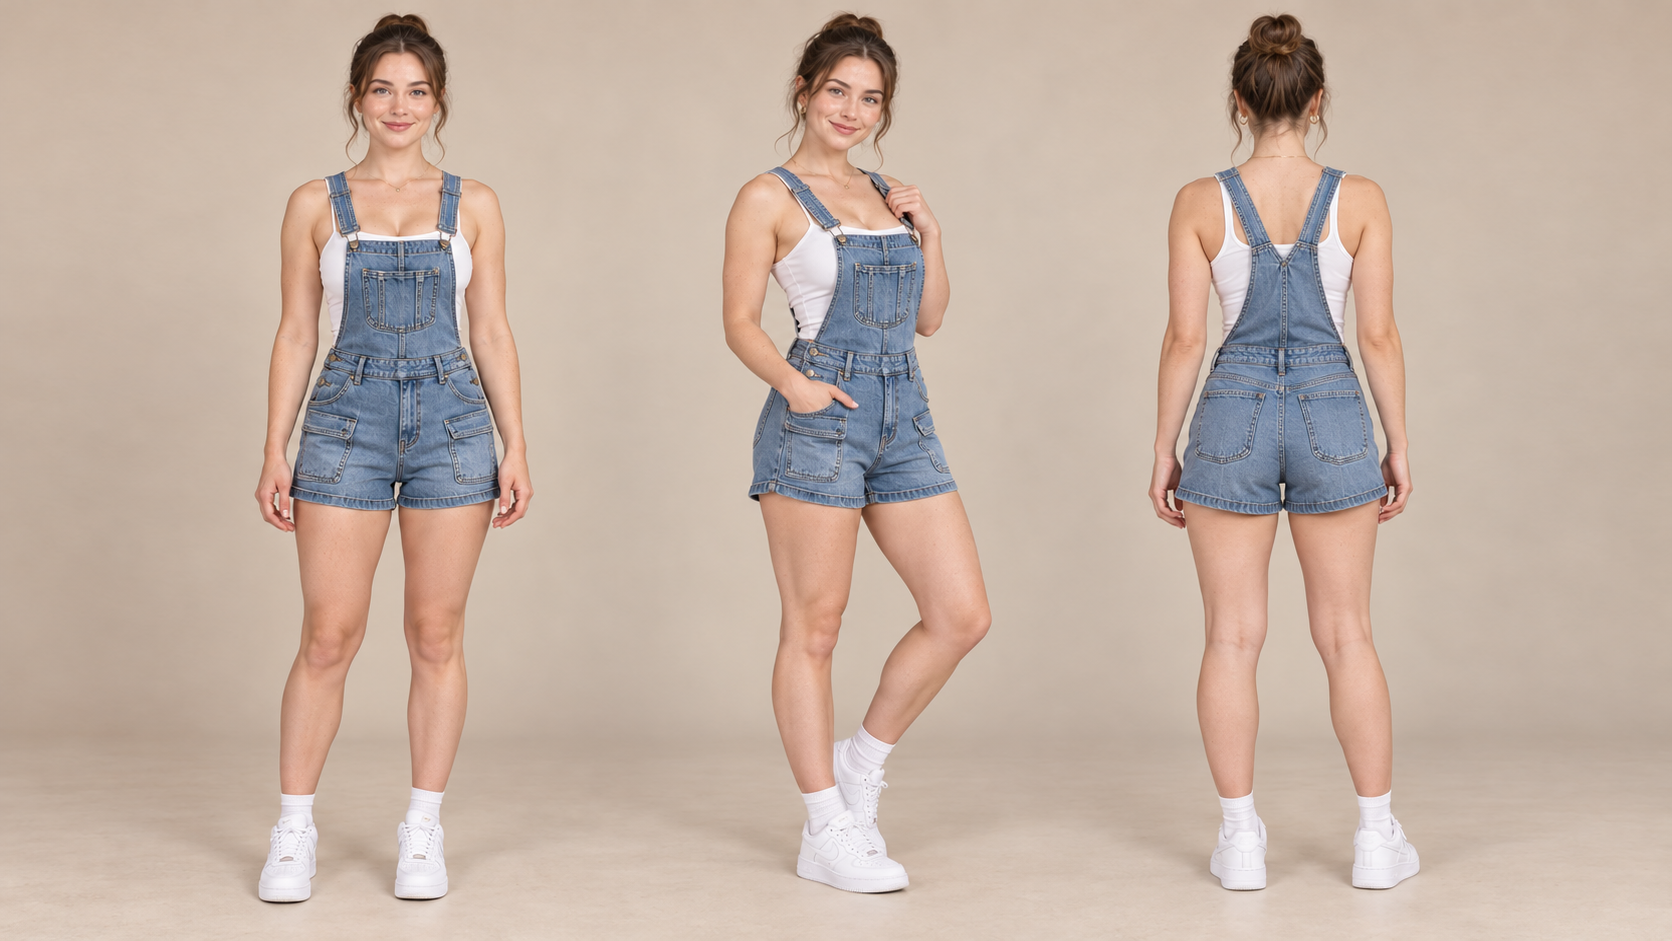
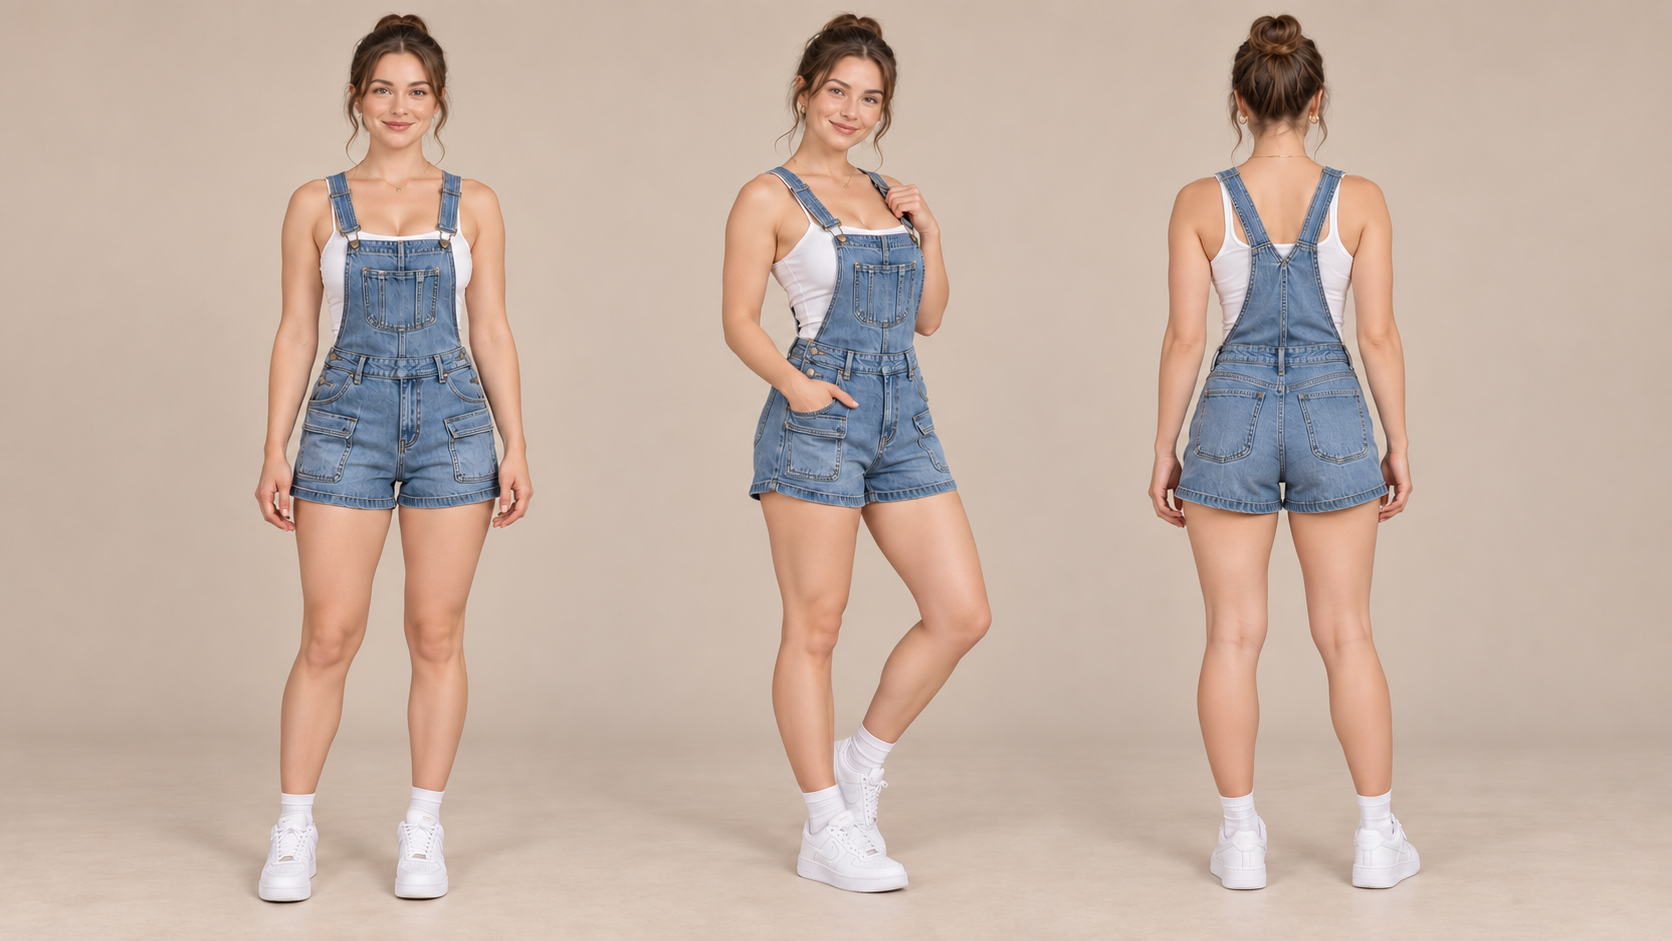
Elise DIY ep02-06: Christmas wall-tree episodes and pipeline lessons
- ep02-ep06 beat lists and gen-anh/gen-video CSVs (wall tinsel tree, light
  tree, floating shelf tree, gift box tower, branch tree)
- new outfits: leggings, pleated skirt + logo crop top (heels / polka-dot
  tights); all model sheets redone without freckles
- muse-video-pipeline.md: QA retry vs Muse "render lại", Chrome profiles,
  per-series tabs, and ep02-04 lessons (cut filler actions, no night
  switch-on scene, lit frame from the previous frame, chained start frames)

diff --git a/content/elise-diy/Y-TUONG-TAP-03-06.md b/content/elise-diy/Y-TUONG-TAP-03-06.md
@@ -1,0 +1,83 @@
+# Elise DIY: 4 ý tưởng Giáng sinh tiếp theo (bản nháp, chờ chủ dự án duyệt)
+
+Phát triển từ video mẫu cây thông kim tuyến trên tường (tập 02). Mỗi tập là một reel dọc 9:16. Mỗi clip Muse 10 giây làm đúng
+một việc, có khung đầu và khung cuối; ghép thì tăng tốc xuống 2–4 giây. Mỗi tập một căn phòng khác nhau để không lặp lại tập 02.
+Mỗi tập mặc một bộ đồ, chọn từ tủ đồ trong `models/`.
+
+## Tập 03: cây thông chỉ bằng đèn (dễ làm nhất, khoảng 24 giây)
+Làm theo ảnh sản phẩm chủ dự án gửi (2026-11-03): 2 dây chéo từ đỉnh, 9 tầng dây đèn dây đen cong vòng cung, khung sao viền đèn
+rỗng giữa, quả châu vàng mờ, đồ kim loại vàng, người tuyết trắng, nơ voan vàng. Phòng tường trắng, cửa sổ nhìn ra tuyết bên phải,
+bàn nhỏ có đèn ngủ, quà giấy nâu sẫm buộc ruy băng vàng. Elise mặc **legging đen + áo ba lỗ trắng + Nike**.
+Điểm hút: bật công tắc, cả cây sáng cùng lúc.
+
+| Giây | Clip | Việc | Khung đầu → khung cuối |
+|---|---|---|---|
+| 0–4 | 1 | Dán móc trong suốt thành 9 cặp viền tam giác | `dn-B-moc-dau` → `dn-B2-moc-xong` |
+| 4–8 | 2 | Giăng dây đèn (tắt): 2 dây chéo, 9 tầng vòng cung | `dn-B2-moc-xong` → `dn-C-day-den` |
+| 8–10 | 3 | Treo khung sao viền đèn lên đỉnh | `dn-C-day-den` → `dn-D-sao` |
+| 10–15 | 4 | Treo quả châu, đồ kim loại vàng, người tuyết, nơ | `dn-D-sao` → `dn-D2-trang-tri` |
+| 15–19 | 5 | Cắt sang buổi tối (thùng đồ đã cất). Bấm công tắc, cả cây sáng | `dn-E2-toi` → `dn-F-sang` |
+| 19–24 | 6 | Máy quay đẩy vào thành phẩm, Elise ra khỏi khung | `dn-F-sang` → `dn-G-thanh-pham` |
+
+Quà và thùng đồ trang trí có sẵn từ ảnh đầu. Thùng chỉ mất ở cú cắt sang buổi tối, để ảnh thành phẩm gọn.
+
+**Trạng thái: XONG (2026-11-03), chủ dự án duyệt bản `video/final.mp4` 18 giây; đã xóa clip lẻ và bản 24 giây. Ghi chú cũ bên dưới để tham khảo:**
+- `video/final-v1.mp4`: 24 giây, QA 62. `video/final.mp4`: bản cắt bỏ đoạn lỗi, 18 giây, QA 53, kém hơn vì mất quá trình làm.
+  Cột cắt hiện trong `gen-video.csv` là của bản 18 giây. Muốn quay lại bản 1 thì xóa `cat_den`, trả `dung_giay` về 4/4/2/5/4/5
+  và `che_do` về `tang_toc`.
+- Đề xuất khi làm tiếp: bỏ clip 1 (móc dán quá nhỏ, Muse cho móc tự hiện ra thành lưới), gen lại clip 4 (đồ trang trí hiện
+  hàng loạt) và clip 6 (bàn đèn và cửa sổ biến mất, đẩy máy quá sâu) bằng câu "render lại"; giữ clip 2, 3, 5.
+
+## Tập 04: cây thông bằng kệ gỗ nổi (khoảng 28 giây)
+Theo ảnh thành phẩm `kg-G-thanh-pham.png`: tường xanh xám nhạt, 6 kệ gỗ óc chó nổi ngắn dần lên trên, sao vàng trên đỉnh,
+cây thông mini phủ tuyết, nến LED, quà nhỏ, chuông vàng, quả mọng, dây lá có đèn; dưới là tủ thấp gỗ óc chó đặt quà và đèn lồng.
+Elise mặc **legging đen + áo ba lỗ trắng + Nike**. Bỏ bước khoan bắt giá (vật nhỏ, AI vẽ kém); giá kệ coi như đã gắn sẵn.
+
+| Giây | Clip | Việc | Khung đầu → khung cuối |
+|---|---|---|---|
+| 0–4 | 1 | Lắp 6 tấm kệ, từ dài nhất ở dưới lên | `kg-B-ke-tron` → `kg-B2-ke-xong` |
+| 4–8 | 2 | Quấn dây lá có đèn (tắt) dọc mép kệ | `kg-B2-ke-xong` → `kg-C-day-la` |
+| 8–12 | 3 | Bày cây thông mini và nến lên kệ | `kg-C-day-la` → `kg-C2-cay-nen` |
+| 12–16 | 4 | Bày quà nhỏ, chuông, quả mọng | `kg-C2-cay-nen` → `kg-D-qua-nho` |
+| 16–18 | 5 | Đặt ngôi sao lên đỉnh | `kg-D-qua-nho` → `kg-D2-sao` |
+| 18–23 | 6 | Buổi tối, bấm điều khiển, đèn và nến sáng | `kg-E2-toi` → `kg-F-sang` |
+| 23–28 | 7 | Elise bước ra khỏi khung, máy quay đẩy vào thành phẩm | `kg-F-sang` → `kg-G-thanh-pham` |
+
+## Tập 05: cây thông bằng hộp quà (khoảng 28 giây)
+Theo ảnh mẫu chủ dự án gửi và ảnh thành phẩm `hq-G-thanh-pham.png`: khoảng 30 hộp quà xếp lệch tầng thành cây (giấy kraft,
+vàng, xanh lục, đồng, xám sẫm, ruy băng xanh lục, nơ kim loại, quả châu nhét khe), tường ván gỗ xám trắng phủ rèm dây đèn,
+vòng nguyệt quế, 2 sao giấy vàng, ghế bành xám gối len xanh, bàn rổ sắt có cây thông nhỏ và cốc đỏ, thảm lông sẫm.
+Elise mặc **váy xếp ly + crop top logo + cao gót đen**.
+
+| Giây | Clip | Việc | Khung đầu → khung cuối |
+|---|---|---|---|
+| 0–4 | 1 | Xếp tầng đáy bằng các hộp lớn nhất | `hq-B-dong-qua` → `hq-B2-tang-day` |
+| 4–8 | 2 | Xếp các tầng giữa tới ngang ngực | `hq-B2-tang-day` → `hq-C-tang-giua` |
+| 8–12 | 3 | Xếp các tầng trên tới hộp nhỏ có nơ xanh trên đỉnh | `hq-C-tang-giua` → `hq-C2-dinh` |
+| 12–16 | 4 | Nhét quả châu vào các khe | `hq-C2-dinh` → `hq-D-qua-chau` |
+| 16–21 | 5 | Buổi tối, bấm điều khiển, rèm dây đèn sáng | `hq-E2-toi` → `hq-F-sang` |
+| 21–28 | 6 | Elise bước ra khỏi khung, máy quay đẩy vào thành phẩm | `hq-F-sang` → `hq-G-thanh-pham` |
+
+## Tập 06: cây thông cành gỗ mộc mạc, kiểu Bắc Âu (khoảng 30 giây)
+Theo ảnh thành phẩm `cg-G-thanh-pham.png`: 6 cành gỗ khô buộc dây đay treo từ móc đồng trên tường trắng, quấn lá thông và dây
+đèn đồng, treo quả thông, quả châu trắng đỏ, sao gỗ; băng ghế trắng bày 3 nến trụ, 2 cây gốm trắng, đèn lồng đen; cửa sổ bên trái,
+sofa xám bên phải, thảm len kem. Elise mặc **váy xếp ly + crop top logo + tất đen chấm bi, không giày**.
+
+| Giây | Clip | Việc | Khung đầu → khung cuối |
+|---|---|---|---|
+| 0–4 | 1 | Buộc 6 cành gỗ bằng dây đay trên băng ghế | `cg-B-canh` → `cg-B2-buoc` |
+| 4–7 | 2 | Treo cây cành gỗ lên móc tường | `cg-B2-buoc` → `cg-C-treo` |
+| 7–11 | 3 | Quấn lá thông và dây đèn (tắt) dọc từng cành | `cg-C-treo` → `cg-C2-la-thong` |
+| 11–15 | 4 | Treo quả thông, quả châu, sao gỗ | `cg-C2-la-thong` → `cg-D-trang-tri` |
+| 15–19 | 5 | Bày nến, cây gốm, đèn lồng lên băng ghế | `cg-D-trang-tri` → `cg-D2-bay-ghe` |
+| 19–24 | 6 | Chiều muộn, bấm điều khiển, đèn và nến sáng | `cg-E2-chieu` → `cg-F-sang` |
+| 24–30 | 7 | Elise bước ra khỏi khung, máy quay đẩy vào thành phẩm | `cg-F-sang` → `cg-G-thanh-pham` |
+
+## Ảnh khung hình (cập nhật 2026-11-03)
+`gen-anh.csv` mỗi tập: `ep03-light-tree/` (`dn-`, 8 ảnh), `ep04-shelf-tree/` (`kg-`, 8 khung + thành phẩm),
+`ep05-gift-tree/` (`hq-`, 7 khung + thành phẩm), `ep06-branch-tree/` (`cg-`, 8 khung + thành phẩm).
+Ảnh thành phẩm `<tiền tố>-G-thanh-pham.png` gen trước để duyệt sản phẩm. Ảnh này được gửi kèm ở khung đầu (lấy đúng phòng)
+và khung bật đèn (lấy đúng sản phẩm). `<tiền tố>-A-elise-truoc.png` là ảnh tham chiếu trang phục, bản không tàn nhang.
+
+## Thứ tự làm đề xuất
+03 → 05 → 06 → 04. Tập 04 có khoan và lắp kệ, vật lý khó nhất, nên làm sau cùng khi đã quen.

diff --git a/docs/muse-video-pipeline.md b/docs/muse-video-pipeline.md
@@ -18,13 +18,24 @@ Quy trình này dùng cho các video remake reel DIY/thủ công dạng timelaps
 4. **Gen ảnh** bằng `gpt_anh.py`. Tool gọi `codex.exe` của extension Codex trong VS Code, dùng tài khoản ChatGPT nên không cần API key.
    **Xem lại từng ảnh** trước khi gửi Muse.
 5. `python muse_auto.py auto --dir <tập>`. Tool lần lượt:
-   - gửi từng clip vào **side chat riêng của series** trên muse.ai, qua Opera + Playwright (cần bật VPN Opera);
-   - **QA từng clip** bằng Claude: đạt; hoặc tự cắt bỏ đuôi lỗi; hoặc gen lại 1 lần kèm câu sửa;
+   - gửi từng clip vào **side chat riêng của series** trên muse.ai, qua Chrome + Playwright (profile `chrome-profile*/`
+     theo `config.json` hoặc `muse-chat.json` của series; Opera chỉ còn là tùy chọn, cần bật VPN Opera);
+   - **QA từng clip** bằng Claude: đạt; hoặc tự cắt bỏ đuôi lỗi; hoặc gen lại 1 lần kèm câu sửa (xem "Gen lại clip" bên dưới);
    - ghép bằng `ghep.py`;
    - QA cả video bằng `qa.py`, cho GPT và Claude chấm cùng thang 7 tiêu chí.
 6. **Chủ dự án xem video.** Sửa bằng cách cắt hoặc làm chậm qua các cột `cat_tu`, `cat_den`, `dung_giay`, `che_do`
    (không tốn lượt gen), hoặc gen lại đúng clip lỗi.
-7. Chốt bản cuối thì dọn file nháp (`_v*/`, `*.lan1.mp4`, `video/qa/`), chỉ giữ `video/final.mp4`.
+7. Chốt bản cuối thì dọn file nháp (`_v*/`, `*.lan1.mp4`, `*.truoc.mp4`, `final-v*.mp4`, `video/qa/`), chỉ giữ `video/final.mp4`.
+
+## Gen lại clip: hai trường hợp khác nhau (chủ dự án quy định, 2026-11-03)
+
+| Trường hợp | Gửi gì cho Muse |
+|---|---|
+| **Clip trượt QA chấm điểm** (biến hình, vật tự xuất hiện...) | Gửi **như tạo một video bình thường**: đính kèm lại đủ ảnh (khung đầu, khung cuối, tham chiếu) và **prompt mới**, tức prompt cũ cộng câu sửa "FIX FROM PREVIOUS ATTEMPT: ...". Tool tự làm khi QA trượt; muốn tự chọn clip thì `muse_auto.py run --csv ... --only N --lam-lai [--sua "câu sửa"]` |
+| **Muse lỗi** ("Delivery not confirmed", không trả video) | Gửi lại **nguyên tin yêu cầu**: đủ ảnh + prompt cũ, mã việc mới. Tool tự làm khi thấy lỗi (tối đa `delivery_retries` lần). Nhắn "render lại" không kèm ảnh thì Muse trả lời là thiếu ảnh và không gen (đã gặp ở Elise Wild C29, 2026-11-03) |
+
+Không bao giờ chỉ nhắn "render lại" cho clip trượt QA. Như vậy Muse không biết làm lại clip nào, cũng không biết phải sửa gì,
+mà vẫn tốn một lượt gen.
 
 Ảnh gen ra, clip, bản nháp và video không commit (`.gitignore`). Commit CSV, tài liệu và model sheet; từ CSV gen lại được tất cả.
 
@@ -51,6 +62,33 @@ Quy trình này dùng cho các video remake reel DIY/thủ công dạng timelaps
   - `gpt_anh.py` tự thử lại 1 lần với khung hình kín đáo hơn.
 - **Muse:**
   - xuất video 704×1248, `ghep.py` phóng lên 1080×1920;
-  - tin nhắn có thể "Delivery not confirmed" khi mạng chập chờn; tool kiểm tra tin đã lên chat và dùng mã `#job-...`
-    để không tải nhầm video cũ;
-  - dùng lại tab đang mở, không mở tab mới.
+  - tin nhắn có thể "Delivery not confirmed" khi mạng chập chờn. Tool kiểm tra tin đã lên chat và dùng mã `#job-...`
+    để không tải nhầm video cũ. Nếu thấy dòng này mà Muse chưa tạo video, tool chờ 30 giây rồi gửi lại nguyên tin yêu
+    cầu kèm ảnh (tối đa `delivery_retries` lần, mặc định 3);
+  - mỗi series dùng lại tab đang mở đúng side chat của nó. Không có tab đó thì tool mở tab mới, không mượn tab Muse của
+    series khác (Elise DIY và Elise Talent dùng chung `chrome-profile-2`).
+
+## Bài học (Elise DIY tập 02–04, cây thông Giáng sinh, 2026-11-03)
+
+- **Bỏ mọi hành động thừa, không kéo dài cho đủ số giây (chủ dự án yêu cầu).** Mỗi giây trong video phải là một công
+  đoạn có ích hoặc là thành phẩm. Cắt bỏ các đoạn đứng chờ, đung đưa, quay qua quay lại, đi qua đi lại, cúi nhặt mà không
+  làm gì, ngắm lâu. Cột giây trong kịch bản chỉ là ước lượng: khi ghép thì cắt theo nội dung (`cat_tu`, `cat_den`, `dung_giay`),
+  bước nào chỉ cần 1,5 giây thì để 1,5 giây. Video ngắn hơn dự kiến cũng được.
+- **Trường hợp hay gặp nhất: Elise cầm đồ vật lắc qua lắc lại.** Khung cuối mà tả "cô đứng cầm món X" thì
+  Muse cho cô đứng đung đưa chờ suốt mấy giây cuối clip. Cách làm:
+  - Khi viết prompt: kết thúc clip ngay khi xong việc, ghi rõ "she never stands idle swaying with an item in her hands".
+    Khung cuối nên là lúc vừa xong thao tác, không phải lúc đứng cầm sẵn đồ của bước sau.
+  - Khi ghép: cắt bỏ đoạn đứng cầm đồ chờ ở cuối clip (`cat_den`), trước khi chốt video.
+- **Muse tự "làm xong trước" ở cuối clip.** Đồ trang trí, dây lá, quà hiện ra hàng loạt mấy giây cuối, sang clip sau lại
+  về ảnh khung đầu, nên người xem thấy đồ xếp lên rồi mất rồi lại xếp. Trích khung hình mỗi 0,5 giây và cắt mỗi clip
+  trước lúc đồ hiện hàng loạt. Thường cắt được ở giây 5–7 của clip 10 giây.
+- **Không dùng cảnh tối rồi bấm công tắc.** Muse làm cả phòng ám cam đậm, nền khác hẳn các cảnh ban ngày. Chủ dự án
+  chọn: chỉ giữ các công đoạn và cảnh thành phẩm sáng đèn ở cuối.
+- **Ảnh bật đèn phải gen từ ảnh ngay trước nó**, không gửi kèm ảnh thành phẩm. Gửi kèm ảnh thành phẩm thì AI vẽ sản
+  phẩm theo ảnh đó, khác ảnh trước, nên clip bị biến hình. Ảnh thành phẩm chỉ dùng ở ảnh đầu, để lấy đúng phòng.
+- **Ảnh thành phẩm gen trước, chủ dự án duyệt sản phẩm rồi mới gen các bước.** Ý tưởng nào có ảnh mẫu thì làm đúng sản
+  phẩm trong ảnh mẫu.
+- **Tránh vật quá nhỏ phải đặt từng cái** (móc dán, giá kệ). Muse cho chúng tự hiện ra thành lưới. Coi như đã gắn sẵn,
+  hoặc lướt nhanh qua bước đó.
+- **Đồ dùng ở bước sau phải có sẵn từ ảnh đầu** (thùng đồ, cuộn dây). Thùng rỗng chỉ cất đi ở cú cắt thời gian.
+- **Cắt đoạn lỗi có thể làm điểm QA tụt** (mất quá trình làm), nhưng người xem thấy sạch hơn. Ở tập 03 chủ dự án chọn bản cắt.

diff --git a/content/elise-diy/models/elise.md b/content/elise-diy/models/elise.md
@@ -6,7 +6,7 @@ bàn resin, đèn, đồ trang trí.
 ## Ngoại hình (cố định, giữ nguyên ở mọi tập)
 
 - Tóc nâu nhạt, búi gọn sau đầu, vài sợi buông hai bên mặt.
-- Mặt tươi tắn, có tàn nhang nhẹ ở mũi và má, trang điểm nhẹ, hay cười.
+- Mặt tươi tắn, da tự nhiên (thấy lỗ chân lông, không làm mịn), **không có tàn nhang** (bỏ từ 2026-11-03 vì AI lúc vẽ lúc không), trang điểm nhẹ, hay cười.
 - Dáng thon, khỏe khoắn.
 - Trang phục: quần yếm short denim xanh nhạt (có túi ngực, dây đeo mảnh), áo ba lỗ trắng bên trong,
   giày thể thao trắng trơn, tất trắng cổ ngắn.
@@ -21,10 +21,50 @@ bàn resin, đèn, đồ trang trí.
 | `elise-ref-trang-phuc.png` | Ảnh trang phục gốc do chủ dự án gửi |
 | `elise-v2-model-sheet.png` | **Bản chuẩn từ tập 02 trở đi (chủ dự án duyệt ngày 2026-11-02):** trang điểm, làm tóc chỉn chu hơn, khuyên tai và dây chuyền vàng, tư thế người mẫu. Dùng ảnh này làm tham chiếu nhân vật cho các tập mới. Bản v3 (dáng cong hơn, áo cổ cao) đã bị bỏ |
 
+## Trang phục thứ 2: legging (2026-11-03, chờ chủ dự án duyệt)
+
+Giữ áo ba lỗ trắng, khuyên tai và dây chuyền. Thay quần yếm short bằng quần legging đen lưng cao dài tới mắt cá chân.
+Đi tất trắng cổ ngắn và giày thể thao Nike cổ thấp màu trắng.
+
+| File | Dùng làm gì |
+|---|---|
+| `elise-legging-model-sheet.png` | Model sheet 3 góc (trước, nghiêng, sau) |
+| `elise-legging-truoc.png` | Góc trực diện, dùng làm ảnh tham chiếu khi gen ảnh cảnh |
+
+Đoạn mô tả để dán vào prompt:
+
+```
+the young European woman from the reference: light brown hair in a neat bun, natural realistic skin texture with fine pores, no freckles, no airbrushing, small gold hoop
+earrings, fitted white tank top, plain black high-waisted full-length leggings, white ankle socks, white leather
+Nike low-top sneakers; modest, wholesome family-friendly DIY tutorial look
+```
+
+## Trang phục thứ 3: váy xếp ly + crop top có logo (2026-11-03, chờ chủ dự án duyệt)
+
+Áo crop top trắng tay ngắn. Trước ngực bên trái có logo thêu chỉ nâu: hình cô gái búi tóc vẽ nét trong vòng tròn,
+bên dưới là chữ "Elise" viết tay. Váy xếp ly màu be, lưng cao, dài trên gối. Có 2 phiên bản:
+
+| File | Phiên bản |
+|---|---|
+| `elise-vay-xep-cao-got-model-sheet.png`, `-truoc.png` | Chân trần, giày cao gót đen bóng mũi nhọn |
+| `elise-vay-xep-tat-cham-bi-model-sheet.png`, `-truoc.png` | Quần tất đen mỏng chấm bi, **không đi giày** |
+| `elise-vay-xep-model-sheet.png` | Bản nháp đầu (chưa có logo, tất trắng + Nike), chỉ để tham khảo |
+
+Đoạn mô tả để dán vào prompt (thêm câu giày dép theo phiên bản):
+
+```
+the young European woman from the reference: light brown hair in a neat bun, natural realistic skin texture with fine pores, no freckles, no airbrushing, small gold hoop
+earrings, fitted white short-sleeve crop top with a small embroidered brown logo on the left chest (line-art girl
+with a bun in a circle, cursive 'Elise' below), high-waisted light beige pleated skirt just above the knee;
+modest, wholesome family-friendly look
+```
+
+Logo nhỏ nên AI có thể vẽ chữ hơi nhòe; trong video không cần đọc được rõ.
+
 ## Đoạn mô tả để dán vào prompt (tiếng Anh)
 
 ```
-the young European woman from the reference: light brown hair in a neat bun, light freckles, light-wash denim
+the young European woman from the reference: light brown hair in a neat bun, natural realistic skin texture with fine pores, no freckles, no airbrushing, light-wash denim
 short overalls over a white tank top, white sneakers, black nitrile gloves; modest, wholesome family-friendly
 DIY tutorial look
 ```

diff --git a/content/elise-diy/ep02-wall-tree/NOI-DUNG.md b/content/elise-diy/ep02-wall-tree/NOI-DUNG.md
@@ -1,0 +1,27 @@
+# Elise DIY tập 02: cây thông Noel trên tường (bản nháp, chờ duyệt)
+
+Video mẫu: `goc.mp4` (reel FSave "Bringing the ultimate Christmas cozy vibe", 28 giây, 9:16).
+Nội dung gốc: dán móc trong suốt thành hình zigzag, giăng dây đèn, quấn kim tuyến thành cây thông phẳng trên tường,
+gắn sao và quả châu, treo tất, trải thảm, xếp quà, rồi khoe thành quả có đèn sáng.
+
+Bản của mình: Elise (model sheet v2, quần yếm short, không đeo găng) làm trên một bức tường xanh xám trong phòng khách.
+Kết thúc bằng cảnh buổi tối Elise bật công tắc và cây sáng đèn.
+
+## Nhịp (khoảng 30 giây)
+
+| Giây | Clip | Việc | Khung đầu → khung cuối |
+|---|---|---|---|
+| 0–4 | 1 | Dán khoảng 14 móc dán trong suốt thành hình zigzag tam giác | `ct-B-moc-dau` → `ct-B2-moc-xong` |
+| 4–8 | 2 | Giăng dây đèn (chưa bật) qua từng móc, từ đỉnh xuống | `ct-B2-moc-xong` → `ct-C-day-den` |
+| 8–12 | 3 | Quấn kim tuyến xanh theo dây đèn, thành cây thông | `ct-C-day-den` → `ct-C2-kim-tuyen` |
+| 12–14 | 4 | Gắn ngôi sao vàng lên đỉnh | `ct-C2-kim-tuyen` → `ct-D-ngoi-sao` |
+| 14–18 | 5 | Treo quả châu đỏ, vàng, bạc và nơ | `ct-D-ngoi-sao` → `ct-D2-trang-tri` |
+| 18–22 | 6 | Cắt thời gian: đã treo tất, trải thảm. Elise quỳ xếp quà | `ct-E0-tat-goi` → `ct-E-qua-xong` |
+| 22–26 | 7 | Buổi tối, phòng tối, Elise bấm công tắc, cây sáng đèn | `ct-E2-toi` → `ct-F-den-sang` |
+| 26–30 | 8 | Máy quay đẩy chậm vào cây đang sáng (không chốt khung cuối, chỉ lấy vài giây đầu) | `ct-F-den-sang` → (không) |
+
+Âm thanh: nhạc Giáng sinh nhẹ, ấm, không lời; tiếng móc dán, tiếng kim tuyến sột soạt, tiếng "tách" công tắc.
+
+## Trạng thái
+- 2026-11-03: đã gen và QA 10 ảnh khung hình (`gen-anh.csv`). Chủ dự án dặn **chưa làm video**:
+  chưa viết `gen-video.csv`, chưa gửi Muse.
